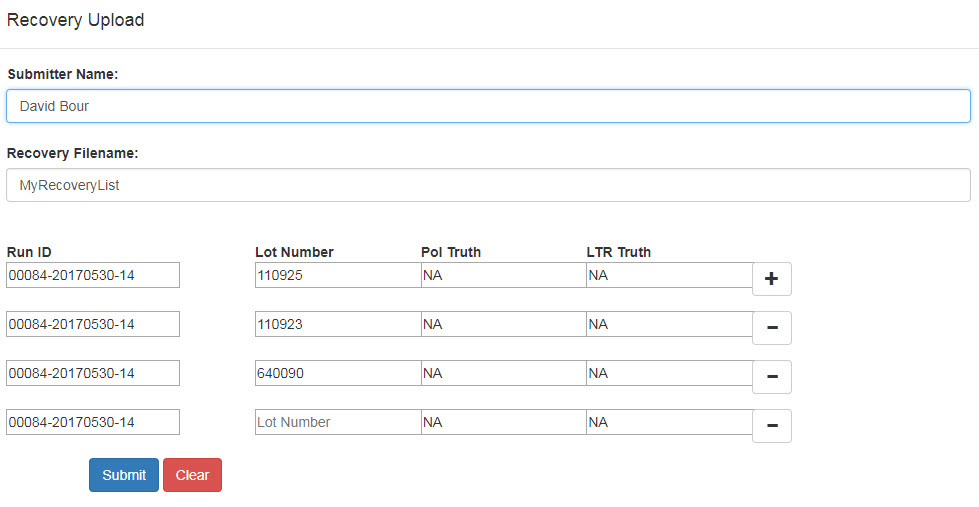
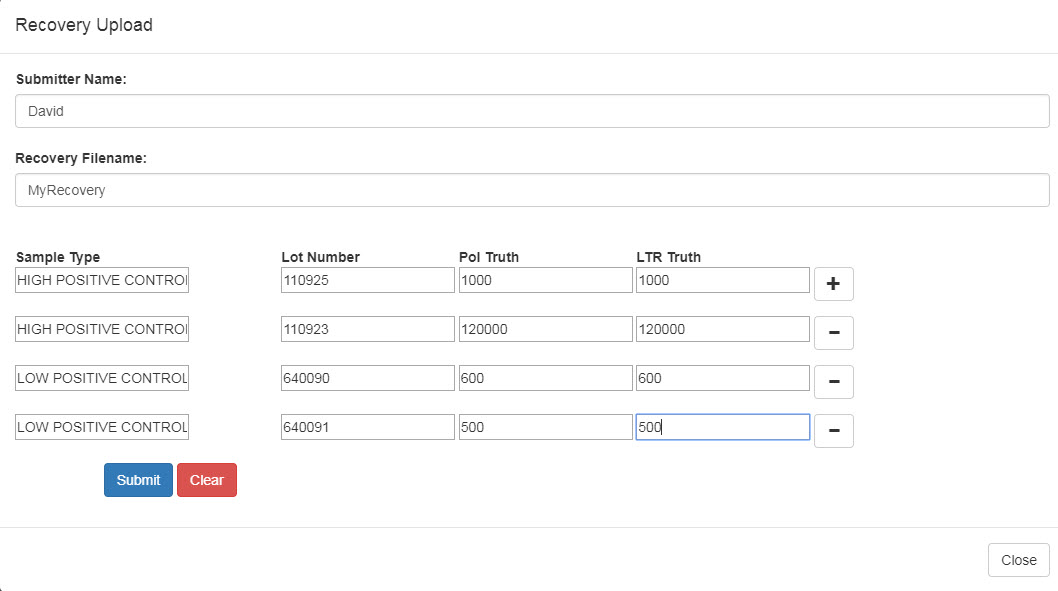
Added updated R scripts. Fixed bug where loading image was shown when the form was not yet submitted

diff --git a/bioinfoweb/pqanalysis/templates/pqanalysis/pqanalysis.html b/bioinfoweb/pqanalysis/templates/pqanalysis/pqanalysis.html
@@ -39,7 +39,7 @@
     <div class="col-xs-6">
         <h1>PQ Analysis</h1>
 
-        <form onsubmit={document.getElementById("page_loader").style.visibility="visible";} action="" method="POST" id="pqupload" enctype="multipart/form-data">
+        <form method="POST" id="pqupload" enctype="multipart/form-data">
 
             {% csrf_token %}
 
@@ -304,7 +304,7 @@
                     <li>Enter an analysis name to identify your run.</li>
                     <li>Enter your name.</li>
                     <li>Choose the assay type.</li>
-                    <li>Select one or multiple PCR/LIS files <br> (tip: place all desired files in one folder)</li>
+                    <li>Select one or multiple PCR/LIS/VLI files <br> (tip: place all desired files in one folder)</li>
                     <li>(Optional) Set advanced options</li>
                 </ol>
                 </p>
@@ -397,7 +397,7 @@
                     <br>
 
                     <div class="row">
-                        <div class="col-xs-3"><b>Run ID</b></div>
+                        <div class="col-xs-3"><b>Sample Type</b></div>
                         <div class="col-xs-2"><b>Lot Number</b></div>
                         <div class="col-xs-2"><b>Pol Truth</b></div>
                         <div class="col-xs-2"><b>LTR Truth</b></div>
@@ -408,8 +408,8 @@
                         <div class="col-xs-3">
                             <input type="text"
                                    class="recovery-input-tma"
-                                   name="recovery[0].runid"
-                                   placeholder="Run ID"/>
+                                   name="recovery[0].sampletype"
+                                   placeholder="Sample Type"/>
                         </div>
                         <div class="col-xs-2">
                             <input type="text"
@@ -442,8 +442,8 @@
                         <div class="col-xs-3">
                             <input type="text"
                                    class="recovery-input-tma"
-                                   name="recovery.runid"
-                                   placeholder="Run ID"/>
+                                   name="recovery.sampletype"
+                                   placeholder="Sample Type"/>
                         </div>
                         <div class="col-xs-2">
                             <input type="text"

diff --git a/bioinfoweb/pqanalysis/static/js/pqanalysis.js b/bioinfoweb/pqanalysis/static/js/pqanalysis.js
@@ -5,7 +5,10 @@ $(document).ready(function() {
 		return this.optional(element) || /^[a-z0-9]+$/i.test(value);
 	}),
 
-	$("#pqupload").validate({
+
+	$("#pqupload").submit(function(e) {
+		e.preventDefault();
+    }).validate({
 		rules: {
 			'analysis_id': {
 				required: true,
@@ -21,7 +24,7 @@ $(document).ready(function() {
 			}
 		},
 		messages: {
-			'analysis_id': 'Only letters and numbers allowed.'
+			'analysis_id': 'Only letters and numbers allowed!'
 		},
 		errorPlacement: function(error, element) {
 			if ( element.is(":radio") ) {
@@ -30,6 +33,10 @@ $(document).ready(function() {
 				error.insertAfter(element);
 			}
 
+		},
+		submitHandler: function(form) {
+			$("#page_loader").css('visibility', 'visible');
+			form.submit();
 		}
 	});
 
@@ -400,10 +407,6 @@ $(document).ready(function() {
 		}
 	});
 
-	// Show loader
-	function showLoader() {
-		$(".page_loader").show();
-	}
 
 	/*************************************************************
 	*

diff --git a/bioinfoweb/pqanalysis/views.py b/bioinfoweb/pqanalysis/views.py
@@ -676,7 +676,7 @@ def ajax_uploaded_recovery(request):
     file_save_path = os.path.join(media_path, file_name_generator)
 
     with open(file_save_path, "wb") as recovery_file:
-      recovery_headers = ["Run.ID", "Lot.Number", "POL.truth", "LTR.truth"]
+      recovery_headers = ["SampleType", "Lot.Number", "POL.truth", "LTR.truth"]
 
       csv_writer = csv.writer(recovery_file, delimiter=",")
       csv_writer.writerow(recovery_headers)
@@ -686,7 +686,7 @@ def ajax_uploaded_recovery(request):
           continue
         else:
           temp_data_storage = {
-            'runid':'',
+            'sampletype':'',
             'lot':'',
             'pol':'',
             'ltr':''
@@ -697,7 +697,7 @@ def ajax_uploaded_recovery(request):
             temp_data_storage[parse_value] = data_value
 
           line_to_write = [
-            temp_data_storage['runid'],
+            temp_data_storage['sampletype'],
             temp_data_storage['lot'],
             temp_data_storage['pol'],
             temp_data_storage['ltr']

diff --git a/bioinfoweb/pqanalysis/rcall/rcaller.py b/bioinfoweb/pqanalysis/rcall/rcaller.py
@@ -20,7 +20,7 @@ class R_Caller_TMA():
         self.recovery_dir = recovery_dir
 
         base_dir = os.path.dirname(os.path.abspath(__file__))
-        self.markdown_file = os.path.join(base_dir, 'pqresults', 'rscripts', 'tma', 'flexdashboard_test.Rmd')
+        self.markdown_file = os.path.join(base_dir, 'pqresults', 'rscripts', 'tma', 'qhiv_reportgen.Rmd')
         self.wrapper_script_file = os.path.join(base_dir, 'pqresults', 'rscripts', 'tma', 'wrapper.R')
         self.join_vl_lis_script_file = os.path.join(base_dir, 'pqresults', 'rscripts', 'tma', 'join_vl_lis.R')
 
